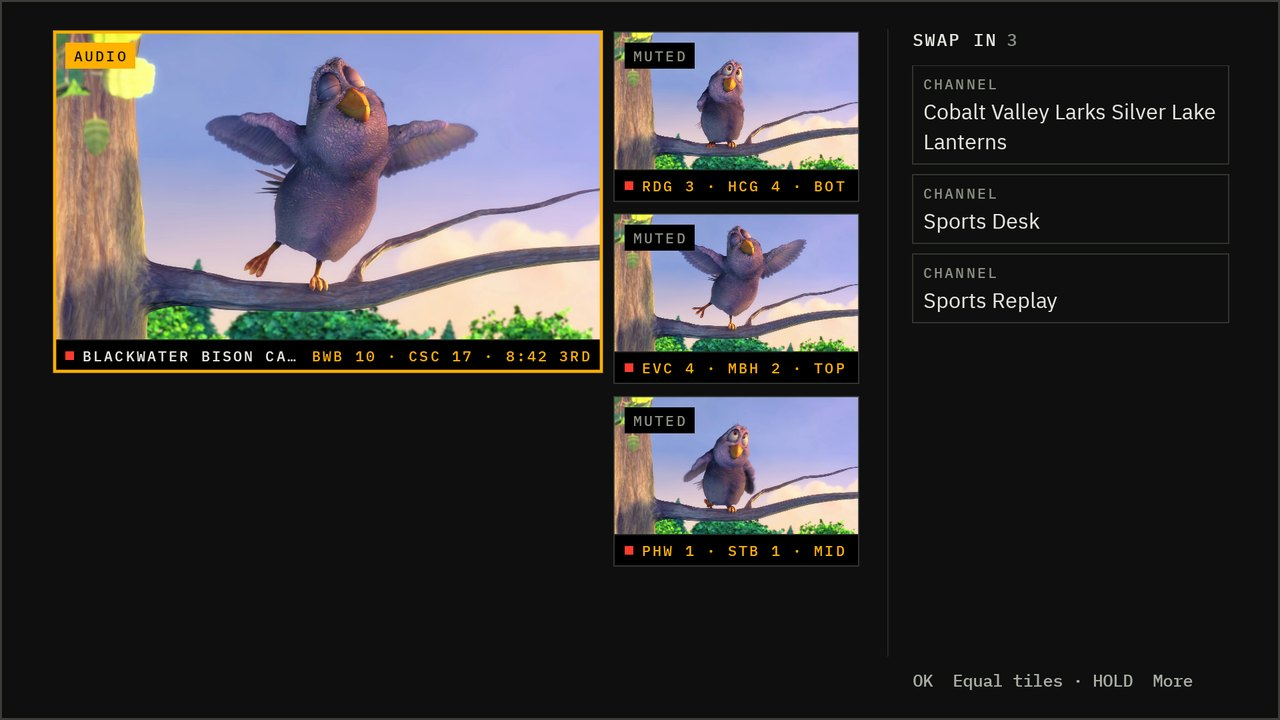
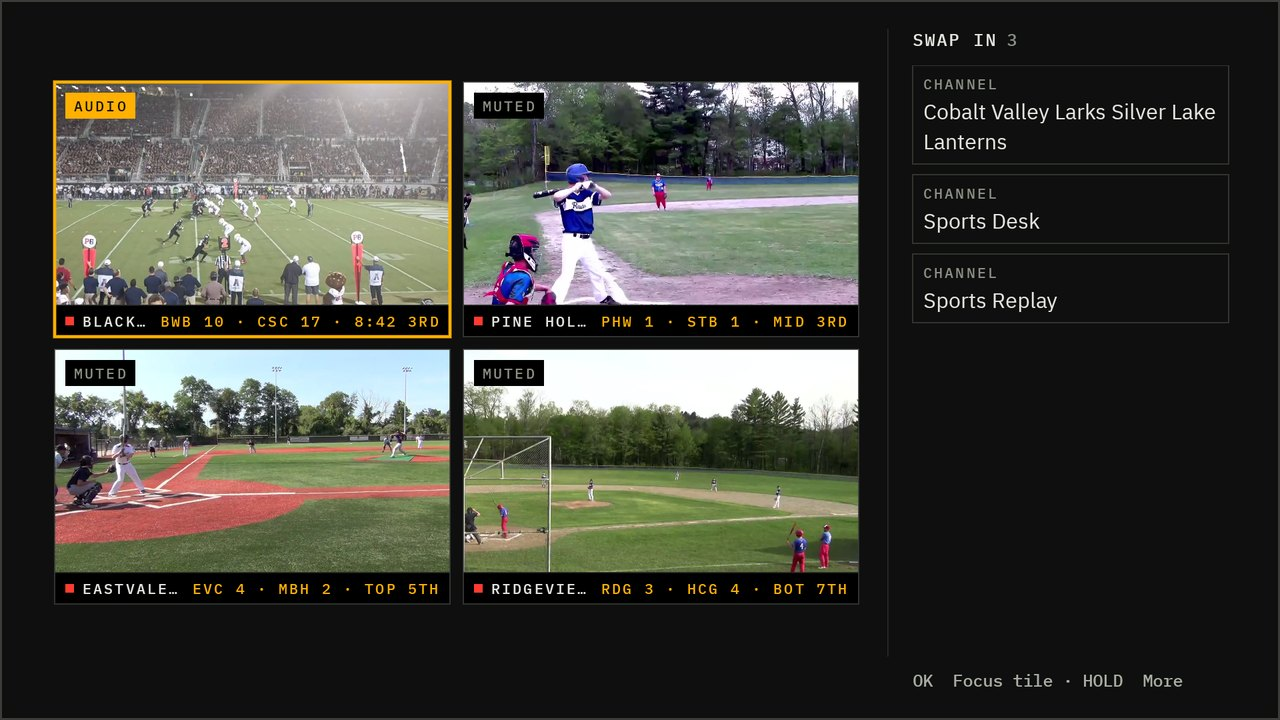
README for 2.0: phones, the live ladder, open-licensed game footage
Live game and multiview shots now run on real game footage from Wikimedia Commons
(HCTV, Keen Eye Sports, elisfkc) under the made-up teams, credited in Credits.
New phone section with a row of phone screenshots and the landscape player;
home, film and now-playing phone shots are dev-server stand-ins until they can be
taken on the owner's server, as are the TV together, library and film images.
Download button reads Download for Android; install covers phones.

diff --git a/tally/art/make-readme-shots.py b/tally/art/make-readme-shots.py
@@ -3,7 +3,9 @@
 GitHub's dark theme otherwise has no visible edge) and animated WebPs (libwebp_anim: plain libwebp keeps only the first frame) from screen recordings, framed the same way.
 Run from the repository root:
   python3 tally/art/make-readme-shots.py <captures dir>
-The captures dir holds the 1920x1080 PNGs and MP4s named in SHOTS and CLIPS; anything missing is skipped."""
+The captures dir holds the 1920x1080 PNGs and MP4s named in SHOTS and CLIPS, and the phone's 1080x2400 (portrait) and
+2400x1080 (landscape) PNGs named in PHONES; anything missing is skipped. Phone screenshots are set side by side on a
+transparent background, each with the same thin frame, so the composite sits on GitHub's light and dark themes alike."""
 import os
 import subprocess
 import sys
@@ -25,6 +27,12 @@ CLIPS = {
     # the Sports page's focused-game panel, where the score rolls (crop found in the 1920x1080 recording)
     "score": ("crop=1628:504:218:148", 24, 92),
 }
+# composite name -> the phone captures in it, left to right, all scaled to one height
+PHONES = {
+    "phone": ["phone-home", "phone-film", "phone-sheet", "phone-music"],
+    "phone-live": ["phone-games", "phone-player"],
+}
+PHONE_HEIGHT, PHONE_GAP, PHONE_WIDTH = 900, 36, 1720
 
 
 def framed(im):
@@ -54,12 +62,30 @@ def clip(src, name, pre, fps, quality):
     print(out, os.path.getsize(out) // 1024, "KB")
 
 
+def phones(src, name, captures):
+    ims = [Image.open(os.path.join(src, c + ".png")).convert("RGB") for c in captures]
+    ims = [framed(im.resize((round(im.width * PHONE_HEIGHT / im.height), PHONE_HEIGHT), Image.LANCZOS)) for im in ims]
+    sheet = Image.new("RGBA", (sum(im.width for im in ims) + PHONE_GAP * (len(ims) - 1), PHONE_HEIGHT), (0, 0, 0, 0))
+    x = 0
+    for im in ims:
+        sheet.paste(im, (x, 0))
+        x += im.width + PHONE_GAP
+    # no wider than the other full-width images need
+    if sheet.width > PHONE_WIDTH:
+        sheet = sheet.resize((PHONE_WIDTH, round(sheet.height * PHONE_WIDTH / sheet.width)), Image.LANCZOS)
+    sheet.save(f"{OUT}{name}.webp", quality=88, method=6)
+    print(f"{OUT}{name}.webp", sheet.size, os.path.getsize(f"{OUT}{name}.webp") // 1024, "KB")
+
+
 def main():
     src = sys.argv[1]
     for name, width in SHOTS.items():
         path = os.path.join(src, name + ".png")
         if os.path.exists(path):
             shot(path, name, width)
+    for name, captures in PHONES.items():
+        if all(os.path.exists(os.path.join(src, c + ".png")) for c in captures):
+            phones(src, name, captures)
     for name, (pre, fps, quality) in CLIPS.items():
         # a trimmed or cropped cut of a recording, if one was made, wins over the raw recording
         for candidate in (name + "-cut.mp4", name + ".mp4"):

diff --git a/tally/art/make-readme-buttons.py b/tally/art/make-readme-buttons.py
@@ -46,6 +46,6 @@ def button(name, label, fill, ink, frame):
     print(OUT + name, width, "x", HEIGHT)
 
 
-button("button-download.svg", "DOWNLOAD FOR ANDROID TV", AMBER, GROUND, AMBER)
+button("button-download.svg", "DOWNLOAD FOR ANDROID", AMBER, GROUND, AMBER)
 button("button-install.svg", "HOW TO INSTALL", GROUND, TEXT, FRAME)
 button("button-releases.svg", "WHAT'S NEW", GROUND, TEXT, FRAME)

diff --git a/README.md b/README.md
@@ -1,7 +1,7 @@
 <p align="center"><img src="tally/readme/header.png" alt="Tally" width="100%"/></p>
 
 <p align="center">
-  <a href="https://github.com/Scdouglas1999/Tally/releases/latest/download/Tally.apk"><img src="tally/readme/button-download.svg" alt="Download for Android TV" height="44"/></a>
+  <a href="https://github.com/Scdouglas1999/Tally/releases/latest/download/Tally.apk"><img src="tally/readme/button-download.svg" alt="Download for Android" height="44"/></a>
   <a href="#install"><img src="tally/readme/button-install.svg" alt="How to install" height="44"/></a>
   <a href="https://github.com/Scdouglas1999/Tally/releases/latest"><img src="tally/readme/button-releases.svg" alt="What's new" height="44"/></a>
 </p>
@@ -10,8 +10,8 @@
 
 ## Why it looks like this
 
-Tally is a Jellyfin app for Android TV. It plays your films, shows and music, and tonight's games if your server
-has live TV.
+Tally is a Jellyfin app for Android TV and Android phones. It plays your films, shows and music, and tonight's games
+if your server has live TV.
 
 A tally light is the small lamp on top of a studio camera. When it's lit, that camera is on air. Tally borrows the
 whole feel of a control room: a dark screen, square edges, clear type, and a single amber light for whatever has
@@ -19,8 +19,8 @@ your attention, the thing you've selected or the game that's live right now. Eve
 
 When the app starts, its light sputters for a moment and catches once your server answers.
 
-The type is IBM Plex, set large enough to read from across the room. Focus is always a solid frame around the thing
-you've selected, so you never have to hunt for it.
+The type is IBM Plex, set large enough to read from across the room. On a TV, focus is always a solid frame around
+the thing you've selected, so you never have to hunt for it.
 
 ## Your library
 
@@ -65,6 +65,11 @@ the clock. When a team scores, the numbers roll over like an old stadium scorebo
 The games come from a public scoreboard feed. The video comes from your own live TV sources (M3U playlists, XMLTV
 guides, HLS streams), added in the plugin's settings. Tally doesn't provide any channels.
 
+When your sources have more than one stream of the same game, the plugin keeps them all and plays the best one:
+the highest frame rate and resolution that your server can download fast enough. If that stream starts to
+stall, the next part of the game comes from the next stream in line, and the picture keeps going without a
+reload. After a few steady minutes it goes back to the better stream, if that one has recovered.
+
 ## Watching together
 
 <p align="center">
@@ -72,8 +77,9 @@ guides, HLS streams), added in the plugin's settings. Tally doesn't provide any 
   <img src="tally/readme/surprise.jpg" alt="Surprise me picking tonight's film" width="49%"/>
 </p>
 
-Start a watch party from the home screen and friends on the same server can join from their own TVs. Play, pause
-and skip happen for everyone at once. It runs on Jellyfin's SyncPlay, so nothing extra is needed on the server.
+Start a watch party from the home screen and friends on the same server can join from their own TVs or phones.
+Play, pause and skip happen for everyone at once. It runs on Jellyfin's SyncPlay, so nothing extra is needed on the
+server.
 
 If you're watching in the same house, Tally shows what's playing on the other TVs, and you can send what you're
 watching to another one and pick it up there.
@@ -81,11 +87,28 @@ watching to another one and pick it up there.
 And for the nights nobody can decide, **Surprise me** picks a film or a show from your library. Narrow it to
 something under two hours, kid-friendly or unwatched, or a genre, and shuffle until something sticks.
 
+## On your phone
+
+<p align="center"><img src="tally/readme/phone.webp" alt="Tally on a phone: the home screen, a film's page, a game's sheet, and now playing with synced lyrics" width="100%"/></p>
+<p align="center"><img src="tally/readme/phone-live.webp" alt="The Sports list on a phone, and a live game in the landscape player with the score bug" width="100%"/></p>
+
+The same app runs on Android phones. On a TV nothing changes; on a phone, every page is laid out for one hand:
+
+- **A bar along the bottom** for Home, Movies, Shows, Sports and More.
+- **Touch.** Tap to open or play. Press and hold anything for the menu that a long press of OK opens on the TV.
+  Menus and dialogs slide up from the bottom of the screen.
+- **Portrait pages, a landscape player.** Browsing stays upright; the player turns sideways and fills the screen,
+  with the score bug on live games.
+- **Music in the background.** Leave the app or lock the phone and the album keeps playing, with controls in the
+  notification and on the lock screen.
+
+Sports, multiview and watch parties work on the phone too, from the same server.
+
 ## Everything else
 
 Under the new look, Tally is built on [Wholphin](https://github.com/damontecres/Wholphin), so it plays nearly
-anything Jellyfin can serve. It direct plays when your TV can handle the file and transcodes when it can't. You
-also get subtitle styling, ExoPlayer or MPV playback, profiles with PINs, a customizable home screen and
+anything Jellyfin can serve. It direct plays when your TV or phone can handle the file and transcodes when it
+can't. You also get subtitle styling, ExoPlayer or MPV playback, profiles with PINs, a customizable home screen and
 [Seerr](https://github.com/seerr-team/seerr) requests.
 
 When a film in a collection ends, Tally offers the next one. Otherwise it suggests something like it. And when a
@@ -93,14 +116,19 @@ new version of Tally comes out, the app offers to update itself the next time yo
 
 ## Install
 
-Tally runs on Android TV, Google TV, Fire TV and the Nvidia Shield (Android 6 or newer). It isn't in an app store
-yet, so you install it with **Downloader**, a free app most TVs have in their store:
+Tally runs on Android TV, Google TV, Fire TV and the Nvidia Shield, and on Android phones (Android 6 or newer). One
+download covers all of them. It isn't in an app store yet.
+
+**On a TV,** you install it with **Downloader**, a free app most TVs have in their store:
 
 1. Install **Downloader** on your TV and open it.
 2. Type in this address and let it download:
    `https://github.com/Scdouglas1999/Tally/releases/latest/download/Tally.apk`
 3. Install it when Downloader asks, then open Tally and sign in to your Jellyfin server. You can delete Downloader
    afterward.
+
+**On a phone,** open [the same address](https://github.com/Scdouglas1999/Tally/releases/latest/download/Tally.apk)
+in the phone's browser, open the downloaded file, and let the browser install apps when Android asks.
 
 Tally installs next to the official Jellyfin app and Wholphin, and doesn't replace either.
 
@@ -114,6 +142,7 @@ Tally is a complete Jellyfin app on its own. The server plugin adds the parts th
 
 - live scores and the game-to-channel matching behind the Sports section
 - live TV channels from your sources, with a guide, for Jellyfin and every app that uses it
+- several streams per game, with the switch to a working one when a stream struggles
 - the install page and the short Downloader code
 - **Play on TV**: start something on your TV from Jellyfin in your phone's browser
 
@@ -156,13 +185,27 @@ contributors and translators. If you like Tally, give Wholphin a star too.
 Thanks also to [Jellyfin](https://jellyfin.org), the free media server Tally talks to, and to IBM for the Plex
 typefaces.
 
-The teams in these screenshots are made up. The live video is *Big Buck Bunny*, © Blender Foundation, licensed
-under [CC BY 3.0](https://creativecommons.org/licenses/by/3.0/).
+The teams and scores in these screenshots are made up. The video under them is real game footage from Wikimedia
+Commons, cropped and looped:
+
+- [Boys Varsity Baseball v. U-32, May 19, 2026](https://commons.wikimedia.org/wiki/File:Boys_Varsity_Baseball_v._U-32_-_MAY_19,_2026.webm)
+  by Hardwick Community Television (HCTV), [CC BY 4.0](https://creativecommons.org/licenses/by/4.0/)
+- [Matthew Dipasupil Summer 2014 Baseball Video](https://commons.wikimedia.org/wiki/File:Matthew_Dipasupil_Summer_2014_Baseball_Video.webm)
+  by Keen Eye Sports, [CC BY 3.0](https://creativecommons.org/licenses/by/3.0/)
+- [Milton Touchdown Pass to Davis](https://commons.wikimedia.org/wiki/File:Milton_Touchdown_Pass_to_Davis.webm)
+  by [elisfkc](https://www.flickr.com/photos/127662106@N04/), [CC BY-SA 2.0](https://creativecommons.org/licenses/by-sa/2.0/);
+  the two screenshots that show it (`multiview.jpg`, `phone-live.webp`) are shared under the same license.
+
+The film behind the watch-party dialog is *Big Buck Bunny*, © Blender Foundation, licensed under
+[CC BY 3.0](https://creativecommons.org/licenses/by/3.0/). Other film and album artwork in the screenshots belongs to
+its owners.
 
 ## License
 
 Tally is free software under the [GNU General Public License, version 2](LICENSE), the same license as Wholphin.
-[NOTICE.md](NOTICE.md) sets out what Tally changed and when, and the third-party material it includes.
+[NOTICE.md](NOTICE.md) sets out what Tally changed and when, and the third-party material it includes. The
+screenshots in `tally/readme/` show footage and artwork that aren't Tally's; [Credits](#credits) lists the footage and
+its licenses.
 
 Tally isn't affiliated with or endorsed by the Wholphin project, Jellyfin, or any league, team or data provider.
 Jellyfin is a trademark of the Jellyfin project. League and team names and logos belong to their owners.
